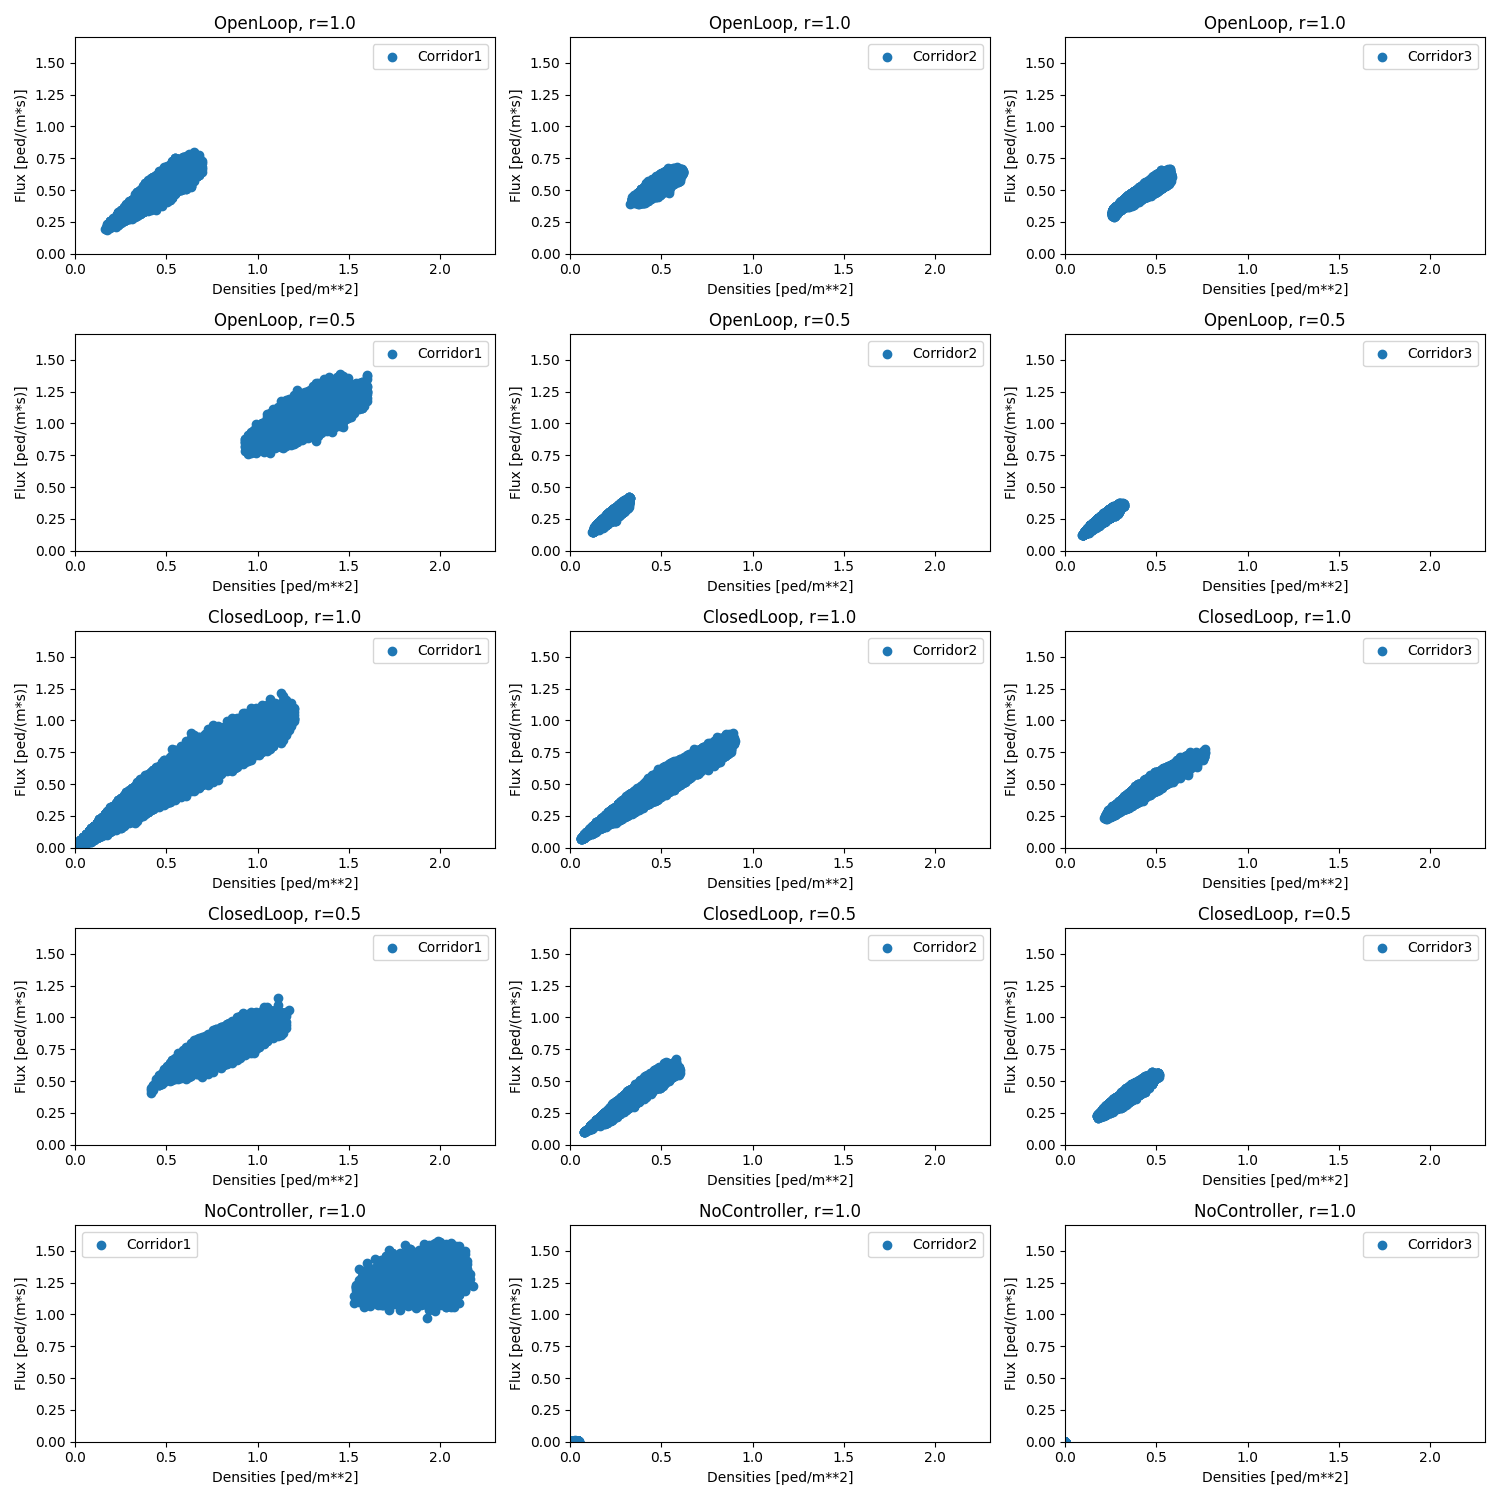
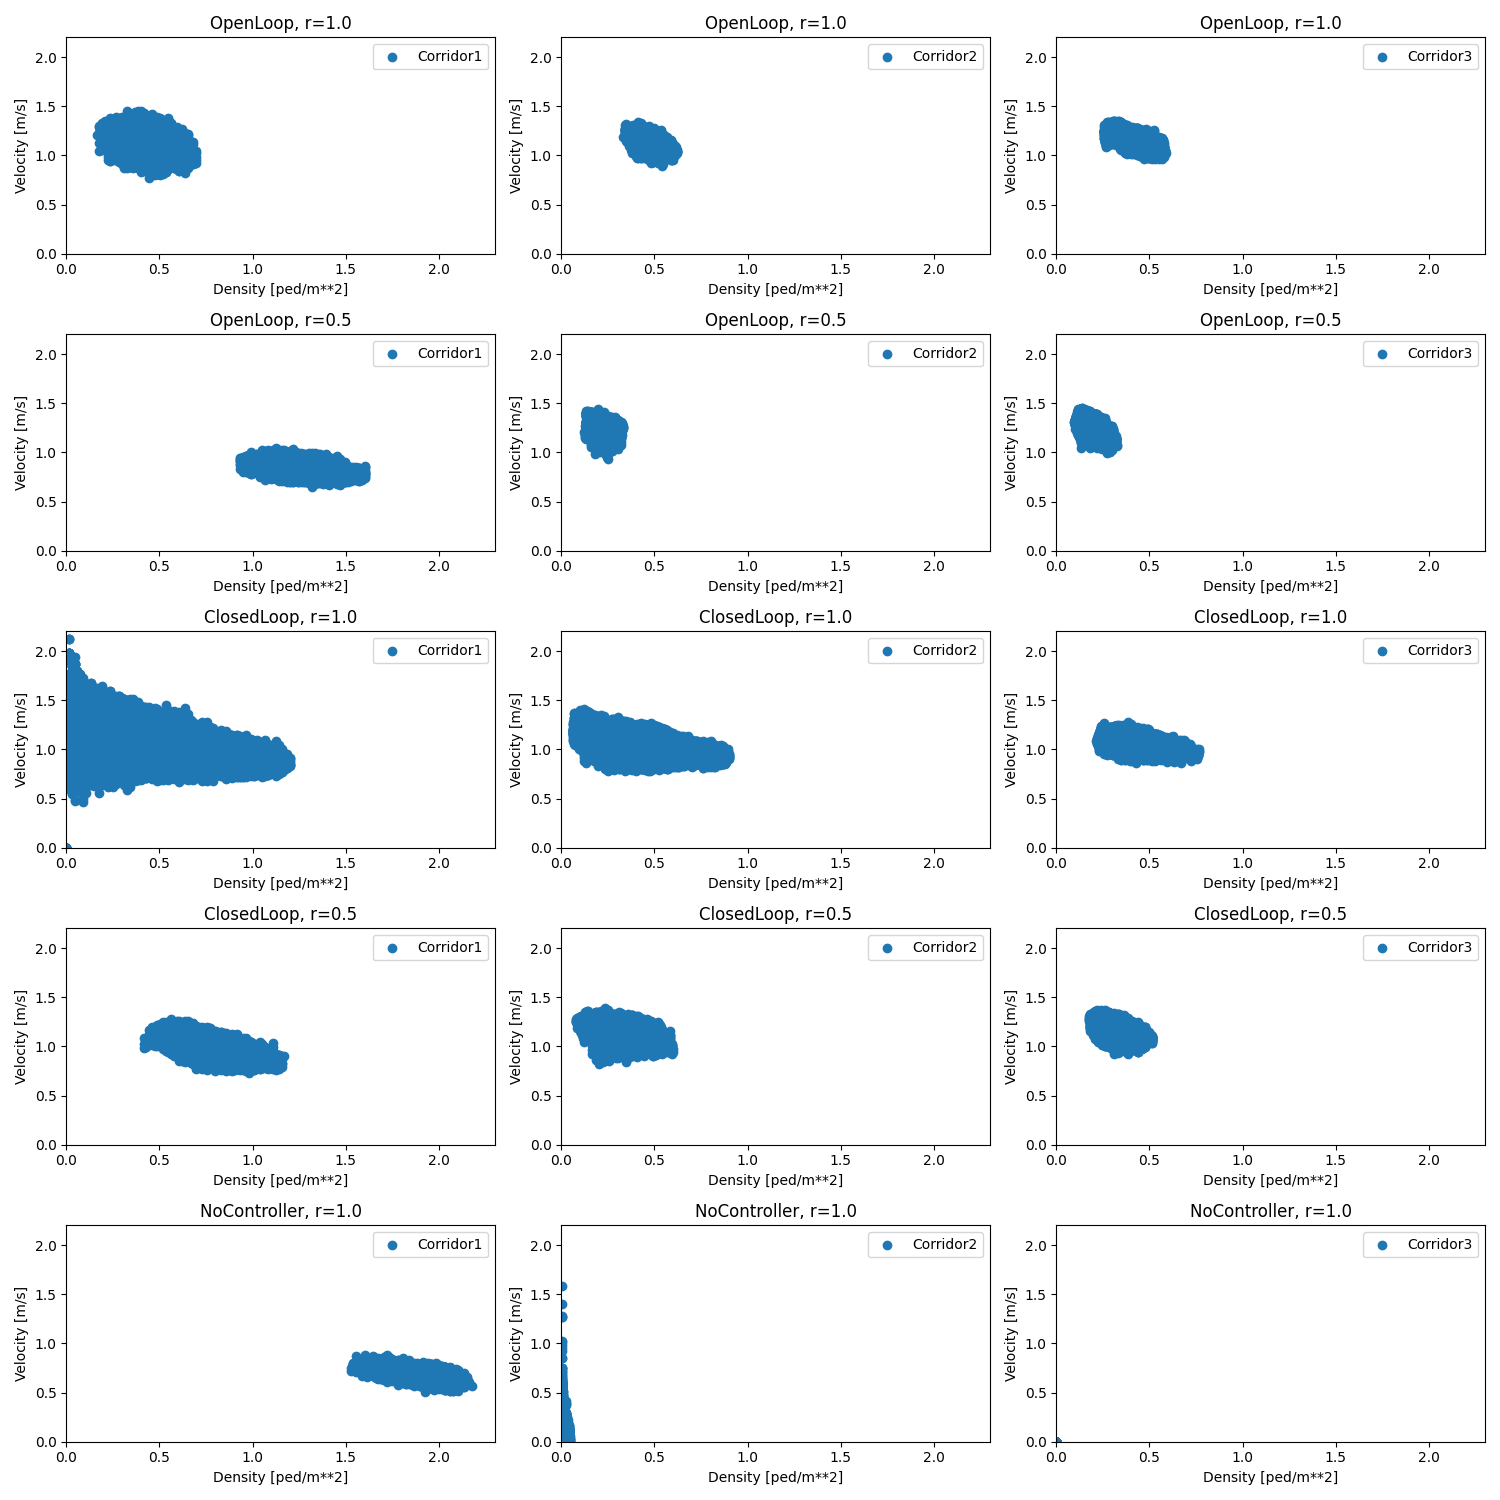
update plots

diff --git a/analysis/uq/simulation_studies/guiding_crowds_forward_propagation/step_3_analyze_results.py b/analysis/uq/simulation_studies/guiding_crowds_forward_propagation/step_3_analyze_results.py
@@ -147,10 +147,8 @@ def plot_travel_time(travel_time):
             ax[counter].hist(times["travel_time"], range=(0, 400), bins=20)
 
             finished = len(times)
-            unfinished = len(stucked)
-            p__ = unfinished/len(data)
 
-            title = f"{c}, {reactionProb}. Not finished at simulation end: {p__*100:.2f}%."
+            title = f"{c}, {reactionProb}. Counts: {finished}."
 
             m = times["travel_time"].median()
             mad = times["travel_time"].mad()
@@ -158,6 +156,7 @@ def plot_travel_time(travel_time):
             ax[counter].axvline(m, color='k', linestyle='dashed', linewidth=1)
             min_ylim, max_ylim = ax[counter].get_ylim()
             ax[counter].text(m * 1.1, max_ylim * 0.9, f'Median: {m:.2f}. Mad: {mad:.2f}')
+            ax[counter].set_xlabel("Travel times [s]")
 
             ax[counter].set_title(title)
             counter +=1
@@ -310,17 +309,15 @@ if __name__ == "__main__":
             iii = 0
             for c in list(corridors.values()):
 
-                flux = pd.concat([d__[c].multiply(v__[c]), d__[simulation_time].round(2)], axis=1)
-                flux = flux.reset_index().set_index([simulation_time, "id"]).drop(columns=["run_id"])
-                ax[ii,iii].hist(flux, range=(0,2), label=c, bins=20)
+                ax[ii,iii].hist(v__[c], range=(0,2), label=c, bins=20)
 
-                m = flux.median()[0]
-                mad = flux.mad()[0]
+                m = v__[c].median()
+                mad = v__[c].mad()
                 ax[ii, iii].axvline(m, color='k', linestyle='dashed', linewidth=1)
                 min_ylim, max_ylim = ax[ii, iii].get_ylim()
                 ax[ii, iii].text(m * 1.1, max_ylim * 0.9, f'Median: {m:.2f}. Mad: {mad:.2f}')
 
-                ax[ii,iii].set_xlabel("Flux [ped/(m*s)]")
+                ax[ii,iii].set_xlabel("Velocity [m/s]")
                 ax[ii,iii].set_title(title_)
                 ax[ii, iii].legend()
                 iii+=1
@@ -333,7 +330,7 @@ if __name__ == "__main__":
             break
 
     fig.tight_layout()
-    plt.savefig(f"figs/flux.png")
+    plt.savefig(f"figs/velocities.png")
     plt.show()
 
     fig, ax = plt.subplots(nrows=5, ncols=len(corridors.values()), figsize=(15, 15))
@@ -359,7 +356,7 @@ if __name__ == "__main__":
                 min_ylim, max_ylim = ax[ii, iii].get_ylim()
                 ax[ii, iii].text(m * 1.1, max_ylim * 0.9, f'Median: {m:.2f}. Mad: {mad:.2f}')
 
-                ax[ii,iii].set_xlabel("Densities [ped/m**2]")
+                ax[ii,iii].set_xlabel("Density [ped/m**2]")
                 ax[ii,iii].set_title(title_)
                 ax[ii, iii].legend()
                 iii+=1
@@ -390,15 +387,12 @@ if __name__ == "__main__":
 
             iii = 0
             for c in list(corridors.values()):
-                flux = pd.concat([d__[c].multiply(v__[c]), d__[simulation_time].round(2)], axis=1)
-                flux = flux.reset_index().set_index([simulation_time, "id"]).drop(columns=["run_id"])
 
-                ax[ii, iii].scatter(x=d__[c], y=flux, label=c)
-
-                ax[ii, iii].set_xlabel("Densities [ped/m**2]")
-                ax[ii, iii].set_ylabel("Flux [ped/(m*s)]")
+                ax[ii, iii].scatter(x=d__[c], y=v__[c], label=c)
+                ax[ii, iii].set_xlabel("Density [ped/m**2]")
+                ax[ii, iii].set_ylabel("Velocity [m/s]")
                 ax[ii, iii].set_xlim(0,2.3)
-                ax[ii, iii].set_ylim(0,1.7)
+                ax[ii, iii].set_ylim(0,2.2)
 
                 ax[ii, iii].set_title(title_)
                 ax[ii, iii].legend()
